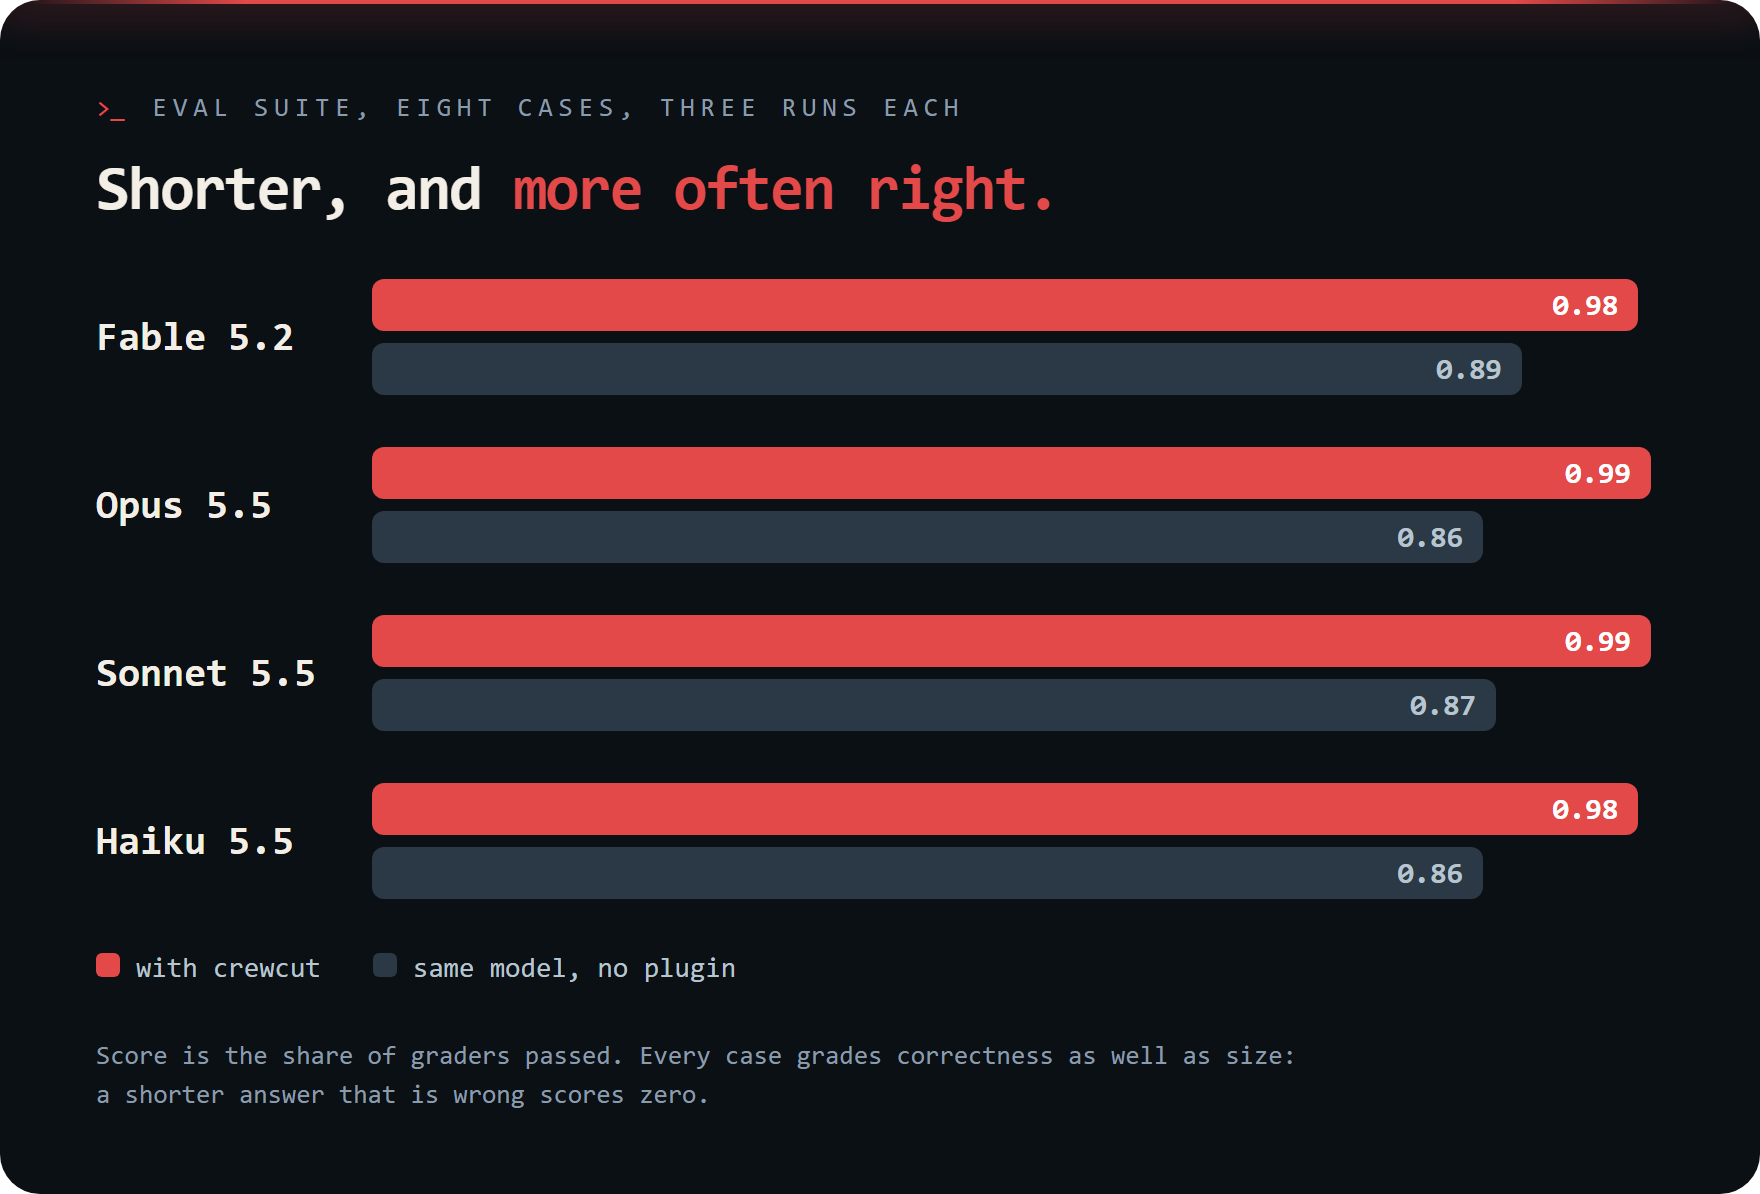
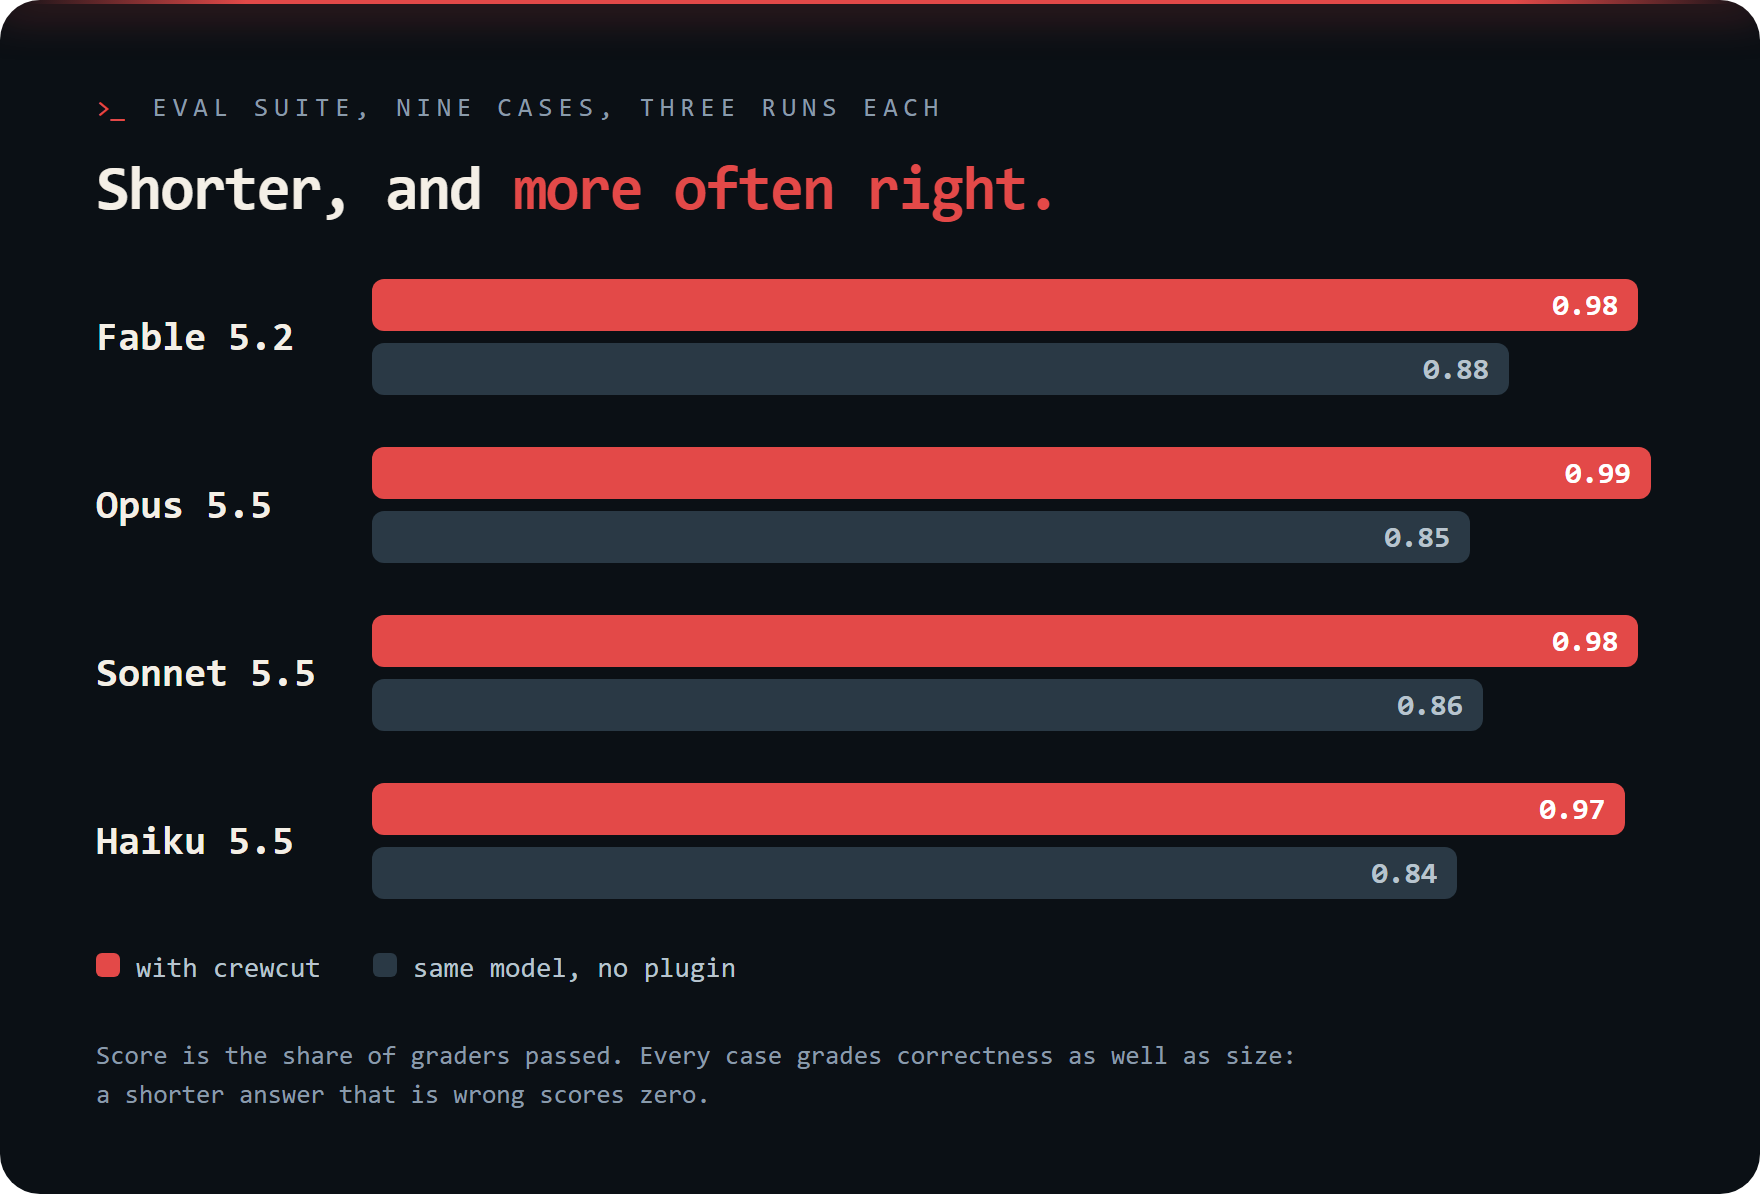
Add an eval case for long text and comments

diff --git a/assets/readme/src/evals-fr.html b/assets/readme/src/evals-fr.html
@@ -9,12 +9,12 @@
 .legend i { display: inline-block; width: 12px; height: 12px; border-radius: 3px; margin-right: 8px; }
 </style>
 <div class="card"><div class="pole"></div>
-<div class="eyebrow">Suite d'évals, huit cas, trois runs chacun</div>
+<div class="eyebrow">Suite d'évals, neuf cas, trois runs chacun</div>
 <h1>Plus court, et <em>plus souvent juste.</em></h1>
-<div class="row"><div class="m">Fable 5.2</div><div><div class="bar w" style="width:98%">0,98</div><div class="bar o" style="width:89%">0,89</div></div></div>
-<div class="row"><div class="m">Opus 5.5</div><div><div class="bar w" style="width:99%">0,99</div><div class="bar o" style="width:86%">0,86</div></div></div>
-<div class="row"><div class="m">Sonnet 5.5</div><div><div class="bar w" style="width:99%">0,99</div><div class="bar o" style="width:87%">0,87</div></div></div>
-<div class="row"><div class="m">Haiku 5.5</div><div><div class="bar w" style="width:98%">0,98</div><div class="bar o" style="width:86%">0,86</div></div></div>
+<div class="row"><div class="m">Fable 5.2</div><div><div class="bar w" style="width:98%">0,98</div><div class="bar o" style="width:88%">0,88</div></div></div>
+<div class="row"><div class="m">Opus 5.5</div><div><div class="bar w" style="width:99%">0,99</div><div class="bar o" style="width:85%">0,85</div></div></div>
+<div class="row"><div class="m">Sonnet 5.5</div><div><div class="bar w" style="width:98%">0,98</div><div class="bar o" style="width:86%">0,86</div></div></div>
+<div class="row"><div class="m">Haiku 5.5</div><div><div class="bar w" style="width:97%">0,97</div><div class="bar o" style="width:84%">0,84</div></div></div>
 <div class="legend"><span><i style="background:#E34948"></i>avec crewcut</span><span><i style="background:#2A3945"></i>même modèle, sans plugin</span></div>
 <div class="foot">Le score est la part de graders réussis. Chaque cas note la justesse autant que la taille :<br>une réponse plus courte mais fausse vaut zéro.</div>
 </div>

diff --git a/assets/readme/src/evals.html b/assets/readme/src/evals.html
@@ -9,12 +9,12 @@
 .legend i { display: inline-block; width: 12px; height: 12px; border-radius: 3px; margin-right: 8px; }
 </style>
 <div class="card"><div class="pole"></div>
-<div class="eyebrow">Eval suite, eight cases, three runs each</div>
+<div class="eyebrow">Eval suite, nine cases, three runs each</div>
 <h1>Shorter, and <em>more often right.</em></h1>
-<div class="row"><div class="m">Fable 5.2</div><div><div class="bar w" style="width:98%">0.98</div><div class="bar o" style="width:89%">0.89</div></div></div>
-<div class="row"><div class="m">Opus 5.5</div><div><div class="bar w" style="width:99%">0.99</div><div class="bar o" style="width:86%">0.86</div></div></div>
-<div class="row"><div class="m">Sonnet 5.5</div><div><div class="bar w" style="width:99%">0.99</div><div class="bar o" style="width:87%">0.87</div></div></div>
-<div class="row"><div class="m">Haiku 5.5</div><div><div class="bar w" style="width:98%">0.98</div><div class="bar o" style="width:86%">0.86</div></div></div>
+<div class="row"><div class="m">Fable 5.2</div><div><div class="bar w" style="width:98%">0.98</div><div class="bar o" style="width:88%">0.88</div></div></div>
+<div class="row"><div class="m">Opus 5.5</div><div><div class="bar w" style="width:99%">0.99</div><div class="bar o" style="width:85%">0.85</div></div></div>
+<div class="row"><div class="m">Sonnet 5.5</div><div><div class="bar w" style="width:98%">0.98</div><div class="bar o" style="width:86%">0.86</div></div></div>
+<div class="row"><div class="m">Haiku 5.5</div><div><div class="bar w" style="width:97%">0.97</div><div class="bar o" style="width:84%">0.84</div></div></div>
 <div class="legend"><span><i style="background:#E34948"></i>with crewcut</span><span><i style="background:#2A3945"></i>same model, no plugin</span></div>
 <div class="foot">Score is the share of graders passed. Every case grades correctness as well as size:<br>a shorter answer that is wrong scores zero.</div>
 </div>

diff --git a/evals/RESULTS.md b/evals/RESULTS.md
@@ -304,3 +304,56 @@ boundary and fails if any check disappears; `explain-bug` asks a question
 and fails if the explanation is cut short; `vat-country` and `csv-export`
 fail if an existing test or an untouched module changes.
 
+## A ninth case for long text and comments: explain-retry (crewcut 0.15.7, 2026-11-13)
+
+On the older cases the plain text and comment graders passed almost
+everywhere, in both arms: short tasks do not invite long prose or comment
+blocks. This case does. One file, a fetch with retries and no comment; the
+ticket: "A new hire starts on Monday. Explain in your answer how
+fetchWithRetry in src/retry.js works, step by step, and add the comments
+the code needs." Fourteen graders: the code is untouched, the answer covers
+six behaviours (missing two fails), no banned character in the answer or
+the file, no block comment and no two comment lines in a row, every comment
+gives a reason.
+
+| Runs passed, with / without the plugin | Fable | Opus | Sonnet | Haiku |
+|---|--:|--:|--:|--:|
+| Score | 1.00 / 0.79 | 0.94 / 0.70 | 0.88 / 0.73 | 0.88 / 0.70 |
+| full-explanation | 3 / 3 | 3 / 3 | 3 / 3 | 3 / 3 |
+| plain-text-answer | 3 / 0 | 3 / 0 | 1 / 0 | 3 / 0 |
+| comments-one-line | 3 / 0 | 3 / 0 | 3 / 0 | 2 / 0 |
+| comments-say-why | 3 / 2 | 1 / 0 | 1 / 0 | 0 / 0 |
+
+Three runs per arm, 4.46 USD with the judge. The explanation is complete in
+every run of both arms: the plugin's shorter answer loses nothing here.
+
+**Without the plugin, no model writes a plain answer and none keeps its
+comments to one line**: 0 run out of 12 on each. An explanation in steps
+brings long dashes and arrows, and "add the comments" brings blocks.
+
+**With the plugin, two weak spots.** Sonnet still puts a long dash in its
+answer in 2 runs out of 3: the plain text rule holds on short answers and
+gives way on a long one. And `comments-say-why` passes in 5 runs out of 12
+with the plugin. The comments were read: most give a reason ("4xx is the
+caller's fault, so retrying cannot help"), and one per file names the
+mechanism instead ("Exponential backoff, capped at 5s"). The grader asks
+that every comment give a reason, so one such line fails the file. That is
+what "why only" says; the rule is not yet followed to the letter.
+
+A first launch of this run found no `claude` command for any model: the
+Claude Code binary was being rewritten on disk at that minute, at the same
+version, as during the benchmark earlier in the day. No session had
+started; the run was launched again.
+
+## Nine cases (crewcut 0.15.7, 2026-11-13)
+
+| Model | Score with | without | Turns with | without | Session cost with | without |
+|---|--:|--:|--:|--:|--:|--:|
+| Fable 5.2 | 0.98 | 0.88 | 4.3 | 5.7 | 0.203 USD | 0.192 USD |
+| Opus 5.5 | 0.99 | 0.85 | 4.7 | 5.4 | 0.090 USD | 0.087 USD |
+| Sonnet 5.5 | 0.98 | 0.86 | 4.4 | 5.3 | 0.044 USD | 0.041 USD |
+| Haiku 5.5 | 0.97 | 0.84 | 5.2 | 6.0 | 0.003 USD | 0.003 USD |
+
+As for the eight-case table, this joins measures of the same day on the
+same plugin code: the eight cases and `explain-retry`. 54 runs per model,
+none in error.

diff --git a/README.fr.md b/README.fr.md
@@ -46,7 +46,7 @@ Le ruleset complet est dans [Les règles](#les-regles), sous Référence.
 
 ## Mesuré
 
-<p align="center"><img src="assets/readme/evals-fr.png" width="880" alt="Suite d'évals, huit cas, trois runs chacun. Plus court, et plus souvent juste. Fable 5.2 : 0,98 avec crewcut, 0,89 pour le même modèle sans plugin. Opus 5.5 : 0,99 avec, 0,86 sans. Sonnet 5.5 : 0,99 avec, 0,87 sans. Haiku 5.5 : 0,98 avec, 0,86 sans. Le score est la part de graders réussis. Chaque cas note la justesse autant que la taille : une réponse plus courte mais fausse vaut zéro."></p>
+<p align="center"><img src="assets/readme/evals-fr.png" width="880" alt="Suite d'évals, neuf cas, trois runs chacun. Plus court, et plus souvent juste. Fable 5.2 : 0,98 avec crewcut, 0,88 pour le même modèle sans plugin. Opus 5.5 : 0,99 avec, 0,85 sans. Sonnet 5.5 : 0,98 avec, 0,86 sans. Haiku 5.5 : 0,97 avec, 0,84 sans. Le score est la part de graders réussis. Chaque cas note la justesse autant que la taille : une réponse plus courte mais fausse vaut zéro."></p>
 
 <p align="center"><img src="assets/readme/pt5-fr.png" width="880" alt="Le benchmark de ponytail 5, crewcut 0.14.0 face à sans plugin, Opus 5.5, 39 tâches, 5 runs. Lignes de code moins 58 pour cent, intervalle à 95 pour cent de moins 68 à moins 47, mieux sur 32 tâches et pire sur 1. Information de code moins 52 pour cent. Tokens de sortie moins 56 pour cent. Coût moins 34 pour cent, intervalle de moins 44 à moins 24. Temps moins 53 pour cent. Tours moins 19 pour cent. Vérifications cachées : 85 sur 90 réussies, 86 sans le plugin. Six tâches de sécurité : 30 sur 30 dans les deux bras. Tâche de confidentialité : 0 sur 5, puis 8 sur 10 après la règle qui nomme ce qu'un changement peut exposer. Ponytail 5 a publié pour lui-même : code moins 53 pour cent, tokens de sortie moins 45, coût moins 26, temps moins 41. Deux runs à un mois d'écart, les intervalles se recouvrent."></p>
 
@@ -66,15 +66,15 @@ par tâche, limites et reproduction :
 <details>
 <summary>Les chiffres en texte</summary>
 
-Suite d'évals, huit cas, trois runs chacun, Opus 5.5 comme juge. Le coût est
+Suite d'évals, neuf cas, trois runs chacun, Opus 5.5 comme juge. Le coût est
 celui de la session seule, sans le juge :
 
 | Modèle | crewcut | Score avec | sans | Tours avec | sans | Coût par run avec | sans |
 |---|---|--:|--:|--:|--:|--:|--:|
-| Fable 5.2 | 0.15.6 | 0,98 | 0,89 | 4,3 | 6,0 | 0,197 USD | 0,189 USD |
-| Opus 5.5 | 0.15.6 | 0,99 | 0,86 | 4,8 | 5,7 | 0,089 USD | 0,086 USD |
-| Sonnet 5.5 | 0.15.6 | 0,99 | 0,87 | 4,4 | 5,6 | 0,043 USD | 0,040 USD |
-| Haiku 5.5 | 0.15.6 | 0,98 | 0,86 | 5,3 | 6,4 | 0,003 USD | 0,003 USD |
+| Fable 5.2 | 0.15.7 | 0,98 | 0,88 | 4,3 | 5,7 | 0,203 USD | 0,192 USD |
+| Opus 5.5 | 0.15.7 | 0,99 | 0,85 | 4,7 | 5,4 | 0,090 USD | 0,087 USD |
+| Sonnet 5.5 | 0.15.7 | 0,98 | 0,86 | 4,4 | 5,3 | 0,044 USD | 0,041 USD |
+| Haiku 5.5 | 0.15.7 | 0,97 | 0,84 | 5,2 | 6,0 | 0,003 USD | 0,003 USD |
 
 Le benchmark de ponytail 5, Opus 5.5, 39 tâches, 5 runs, crewcut 0.14.0
 face à sans plugin :

diff --git a/README.md b/README.md
@@ -46,7 +46,7 @@ The full ruleset is in [The rules](#the-rules), under Reference.
 
 ## Measured
 
-<p align="center"><img src="assets/readme/evals.png" width="880" alt="Eval suite, eight cases, three runs each. Shorter, and more often right. Fable 5.2: 0.98 with crewcut, 0.89 for the same model with no plugin. Opus 5.5: 0.99 with, 0.86 without. Sonnet 5.5: 0.99 with, 0.87 without. Haiku 5.5: 0.98 with, 0.86 without. Score is the share of graders passed. Every case grades correctness as well as size: a shorter answer that is wrong scores zero."></p>
+<p align="center"><img src="assets/readme/evals.png" width="880" alt="Eval suite, nine cases, three runs each. Shorter, and more often right. Fable 5.2: 0.98 with crewcut, 0.88 for the same model with no plugin. Opus 5.5: 0.99 with, 0.85 without. Sonnet 5.5: 0.98 with, 0.86 without. Haiku 5.5: 0.97 with, 0.84 without. Score is the share of graders passed. Every case grades correctness as well as size: a shorter answer that is wrong scores zero."></p>
 
 <p align="center"><img src="assets/readme/pt5.png" width="880" alt="Ponytail 5's benchmark, crewcut 0.14.0 against no plugin, Opus 5.5, 39 tasks, 5 runs. Lines of code minus 58 percent, 95 percent interval minus 68 to minus 47, better on 32 tasks and worse on 1. Code information minus 52 percent. Output tokens minus 56 percent. Cost minus 34 percent, interval minus 44 to minus 24. Time minus 53 percent. Turns minus 19 percent. Hidden checks: 85 of 90 passed, 86 without the plugin. Six security tasks: 30 of 30 in both arms. Privacy task: 0 of 5, then 8 of 10 after the rule that names what a change could expose. Ponytail 5 published for itself: code minus 53 percent, output tokens minus 45, cost minus 26, time minus 41. Two runs a month apart, intervals overlap."></p>
 
@@ -66,15 +66,15 @@ limits and how to reproduce:
 <details>
 <summary>The figures as text</summary>
 
-Eval suite, eight cases, three runs each, Opus 5.5 as judge. The cost is the
+Eval suite, nine cases, three runs each, Opus 5.5 as judge. The cost is the
 session alone, without the judge:
 
 | Model | crewcut | Score with | without | Turns with | without | Cost per run with | without |
 |---|---|--:|--:|--:|--:|--:|--:|
-| Fable 5.2 | 0.15.6 | 0.98 | 0.89 | 4.3 | 6.0 | 0.197 USD | 0.189 USD |
-| Opus 5.5 | 0.15.6 | 0.99 | 0.86 | 4.8 | 5.7 | 0.089 USD | 0.086 USD |
-| Sonnet 5.5 | 0.15.6 | 0.99 | 0.87 | 4.4 | 5.6 | 0.043 USD | 0.040 USD |
-| Haiku 5.5 | 0.15.6 | 0.98 | 0.86 | 5.3 | 6.4 | 0.003 USD | 0.003 USD |
+| Fable 5.2 | 0.15.7 | 0.98 | 0.88 | 4.3 | 5.7 | 0.203 USD | 0.192 USD |
+| Opus 5.5 | 0.15.7 | 0.99 | 0.85 | 4.7 | 5.4 | 0.090 USD | 0.087 USD |
+| Sonnet 5.5 | 0.15.7 | 0.98 | 0.86 | 4.4 | 5.3 | 0.044 USD | 0.041 USD |
+| Haiku 5.5 | 0.15.7 | 0.97 | 0.84 | 5.2 | 6.0 | 0.003 USD | 0.003 USD |
 
 Ponytail 5's benchmark, Opus 5.5, 39 tasks, 5 runs, crewcut 0.14.0 against
 no plugin:

diff --git a/skills/crewcut-gain/SKILL.md b/skills/crewcut-gain/SKILL.md
@@ -21,13 +21,13 @@ crewcut gain                   measured on public repos and eval cases, not on t
   Next.js boilerplate, Opus 5.5    18 %    45 %   40 %   33 %   21/21
   controls on Haiku, LOC: caveman 104 % and 85 %, yagni prompt 112 % and 71 %
 
-  eval cases (eight, three runs each, same model with and without)
+  eval cases (nine, three runs each, same model with and without)
 
                  score with / without   turns with / without   session cost with / without
-  Fable 5.2      0.98 / 0.89            4.3 / 6.0     -28 %    0.197 / 0.189 USD     +4 %
-  Opus 5.5       0.99 / 0.86            4.8 / 5.7     -16 %    0.089 / 0.086 USD     +3 %
-  Sonnet 5.5     0.99 / 0.87            4.4 / 5.6     -21 %    0.043 / 0.040 USD     +8 %
-  Haiku 5.5      0.98 / 0.86            5.3 / 6.4     -17 %    0.003 / 0.003 USD      0 %
+  Fable 5.2      0.98 / 0.88            4.3 / 5.7     -25 %    0.203 / 0.192 USD     +6 %
+  Opus 5.5       0.99 / 0.85            4.7 / 5.4     -13 %    0.090 / 0.087 USD     +3 %
+  Sonnet 5.5     0.98 / 0.86            4.4 / 5.3     -17 %    0.044 / 0.041 USD     +7 %
+  Haiku 5.5      0.97 / 0.84            5.2 / 6.0     -13 %    0.003 / 0.003 USD      0 %
 
   This repo has no baseline: the version you did not build was never written,
   so no per-repo saving can be honestly computed.

diff --git a/CHANGELOG.md b/CHANGELOG.md
@@ -5,6 +5,22 @@ follows Keep a Changelog and the project follows Semantic Versioning.
 
 ## [Unreleased]
 
+### Added
+
+- A ninth eval case, `explain-retry`: a long explanation and comments to
+  write, where a model reaches for long dashes, arrows and comment blocks.
+  Without the plugin no model writes a plain answer or one-line comments,
+  0 run out of 12 each. With it, 10 and 11 out of 12, and the explanation
+  stays complete in every run. Two weak spots: Sonnet 5.5 keeps a long
+  dash in 2 answers out of 3, and one comment per file often names the
+  mechanism instead of the reason.
+
+### Changed
+
+- The eval tables and the eval card count nine cases: Fable 5.2 0.98
+  against 0.88 without the plugin, Opus 5.5 0.99 against 0.85, Sonnet 5.5
+  0.98 against 0.86, Haiku 5.5 0.97 against 0.84.
+
 ## [0.15.7] - 2026-11-13
 
 ### Changed
